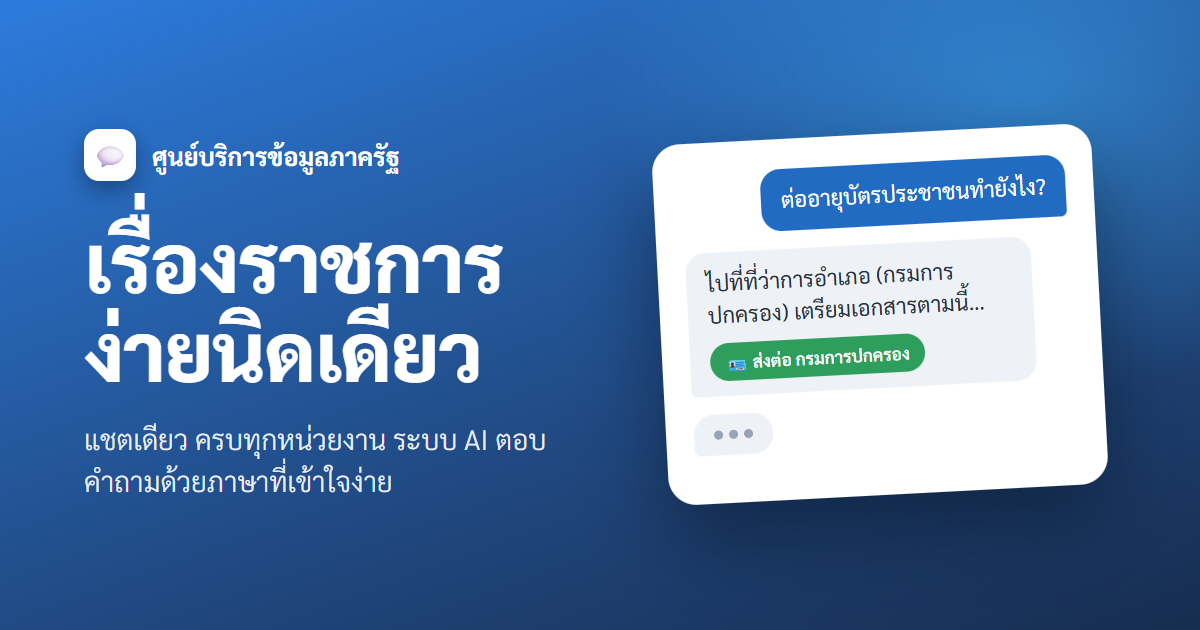
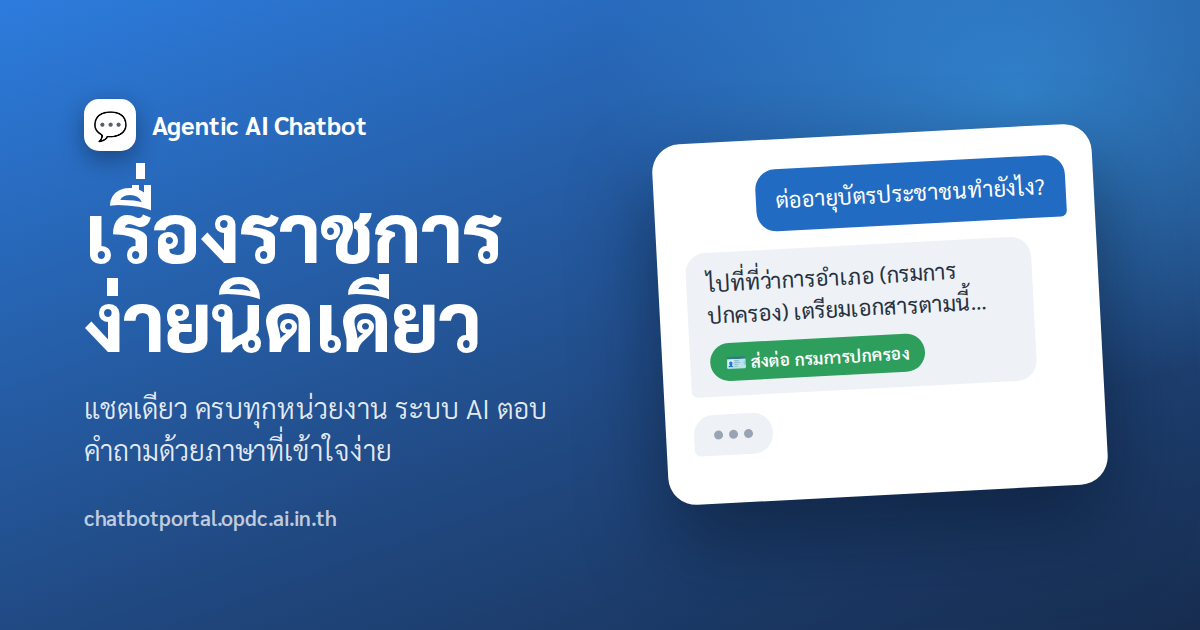
chore(frontend): rebrand og-image to Agentic AI Chatbot (style 6)
Regenerate public/og-image.png with brand label Agentic AI Chatbot; keep
hero/subtitle/chat card. Add HTML source at public/og-source/og-image.html.

diff --git a/frontend/public/og-source/og-image.html b/frontend/public/og-source/og-image.html
@@ -1,0 +1,49 @@
+<!doctype html>
+<html lang="th">
+<head>
+<meta charset="UTF-8">
+<link rel="preconnect" href="https://fonts.googleapis.com">
+<link rel="preconnect" href="https://fonts.gstatic.com" crossorigin>
+<link href="https://fonts.googleapis.com/css2?family=Sarabun:wght@300;400;500;600;700;800&display=swap" rel="stylesheet">
+<style>
+  * { margin:0; padding:0; box-sizing:border-box; }
+  html,body { width:1200px; height:630px; overflow:hidden; }
+  body { font-family:'Sarabun',sans-serif; background:radial-gradient(700px 500px at 85% 15%, hsla(205,90%,60%,.5), transparent 60%), linear-gradient(160deg, hsl(213,72%,52%) 0%, hsl(215,60%,32%) 60%, hsl(217,55%,20%) 100%); color:#fff; position:relative; }
+  .content { position:absolute; inset:0; display:flex; align-items:center; }
+  .left { width:560px; padding:0 0 0 84px; }
+  .brand { display:flex; align-items:center; gap:16px; font-size:25px; font-weight:700; }
+  .brand .logo { width:52px; height:52px; border-radius:15px; background:#fff; color:hsl(213,72%,48%); display:flex; align-items:center; justify-content:center; font-size:28px; box-shadow:0 8px 22px hsla(215,70%,8%,.4); }
+  h1 { font-size:82px; font-weight:800; line-height:1.08; margin-top:34px; letter-spacing:-1px; }
+  p { margin-top:24px; font-size:28px; font-weight:300; line-height:1.5; color:hsla(0,0%,100%,.9); max-width:490px; }
+  .url { margin-top:34px; font-size:21px; font-weight:600; color:hsla(0,0%,100%,.72); }
+  .right { flex:1; display:flex; justify-content:center; align-items:center; }
+  .card { width:440px; background:#fff; border-radius:28px; padding:30px 28px; box-shadow:0 40px 80px hsla(217,70%,8%,.5); color:hsl(215,25%,18%); transform:rotate(-3deg); }
+  .row { display:flex; margin-bottom:18px; }
+  .bubble { padding:15px 20px; border-radius:20px; font-size:22px; font-weight:400; line-height:1.45; max-width:90%; }
+  .q { margin-left:auto; background:hsl(213,70%,45%); color:#fff; border-bottom-right-radius:6px; }
+  .a { background:hsl(210,36%,95%); color:hsl(215,25%,20%); border-bottom-left-radius:6px; }
+  .tag { display:inline-flex; align-items:center; gap:8px; margin-top:12px; padding:7px 15px; border-radius:999px; background:hsl(145,55%,40%); color:#fff; font-size:17px; font-weight:600; }
+  .typing { display:flex; gap:6px; padding:16px 20px; }
+  .typing i { width:9px; height:9px; border-radius:50%; background:hsl(215,15%,65%); }
+</style>
+</head>
+<body>
+  <div class="content">
+    <div class="left">
+      <div class="brand"><span class="logo">💬</span>Agentic AI Chatbot</div>
+      <h1>เรื่องราชการ<br>ง่ายนิดเดียว</h1>
+      <p>แชตเดียว ครบทุกหน่วยงาน ระบบ AI ตอบคำถามด้วยภาษาที่เข้าใจง่าย</p>
+      <div class="url">chatbotportal.opdc.ai.in.th</div>
+    </div>
+    <div class="right">
+      <div class="card">
+        <div class="row"><div class="bubble q">ต่ออายุบัตรประชาชนทำยังไง?</div></div>
+        <div class="row"><div class="bubble a">ไปที่ที่ว่าการอำเภอ (กรมการปกครอง) เตรียมเอกสารตามนี้…
+          <div class="tag">🪪 ส่งต่อ กรมการปกครอง</div>
+        </div></div>
+        <div class="row"><div class="bubble a typing"><i></i><i></i><i></i></div></div>
+      </div>
+    </div>
+  </div>
+</body>
+</html>

diff --git a/context.md b/context.md
@@ -938,3 +938,11 @@ direct read (file:line), not inferred.
   keeping `text-*` sizes and all other classes; base Medium (500) now applies.
 - Left non-heading `font-bold`/`font-semibold`/`font-medium` utilities (buttons, badges, labels)
   untouched — intentional design. `tsc` clean; no new lint errors.
+
+## 2026-08-02 — OG image rebrand (style 6)
+- Regenerated `frontend/public/og-image.png` (1200×630): brand label in the past-selected "style 6"
+  layout changed "ศูนย์บริการข้อมูลภาครัฐ" → "Agentic AI Chatbot"; hero h1/subtitle/chat card
+  unchanged. Rendered via Playwright's cached `chrome-headless-shell` (--window-size=1200,630,
+  --virtual-time-budget for Sarabun webfont). HTML source kept at `frontend/public/og-source/og-image.html`.
+- Not touched (still "ศูนย์บริการข้อมูลภาครัฐ"): `index.html` `og:title`/`twitter:title`/`og:image:alt`/
+  `author` meta and the page `<title>` — pending user decision on full SEO rebrand.
